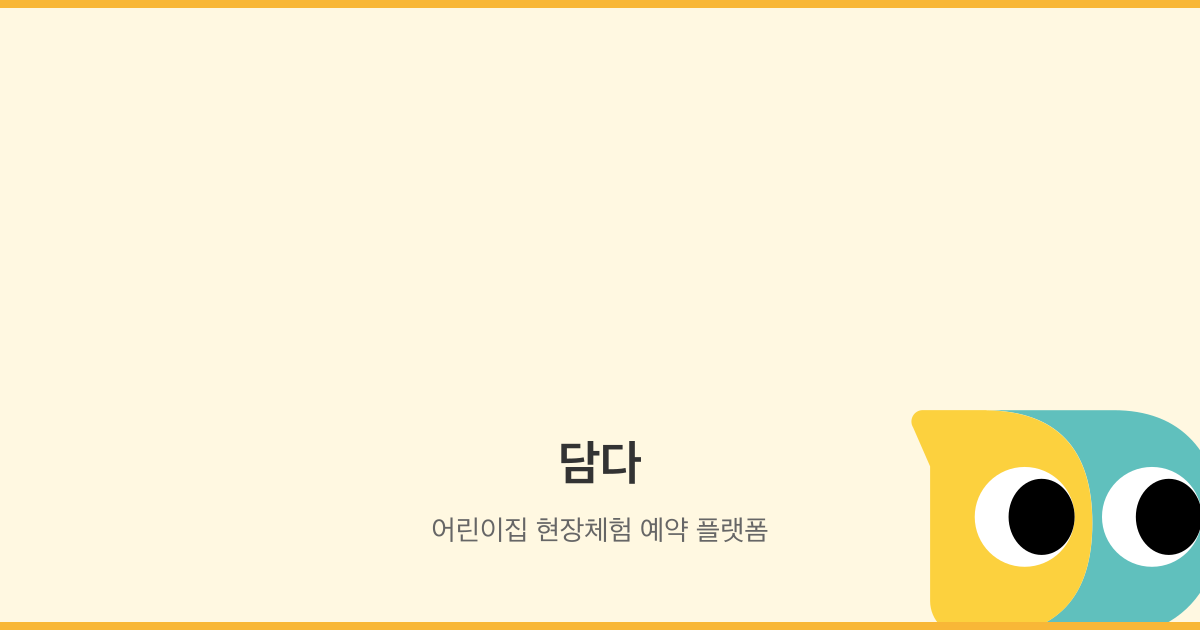
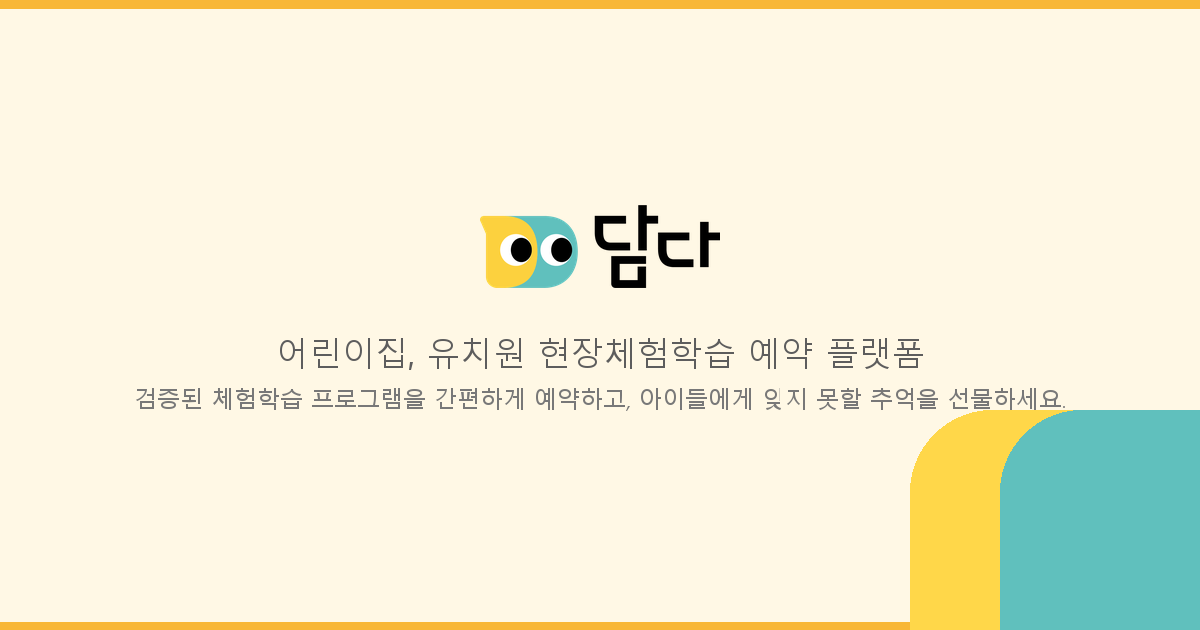
Use shared Damda preview image for links

diff --git a/src/app/layout.tsx b/src/app/layout.tsx
@@ -8,11 +8,11 @@ import "./globals.css";
 export const metadata: Metadata = {
   metadataBase: new URL("https://withdamda.kr"),
   title: {
-    default: "담다 | 어린이집·유치원 현장체험 예약 플랫폼",
+    default: "담다 | 어린이집·유치원 현장체험학습 예약 플랫폼",
     template: "%s | 담다",
   },
   description:
-    "담다는 어린이집·유치원을 위한 현장체험 예약 플랫폼입니다. 검증된 체험학습 업체와 프로그램을 지역별로 비교하고 간편하게 예약하세요.",
+    "담다는 어린이집·유치원을 위한 현장체험학습 예약 플랫폼입니다. 검증된 체험학습 업체와 프로그램을 지역별로 비교하고 간편하게 예약하세요.",
   keywords: [
     "어린이집",
     "현장체험",
@@ -27,7 +27,7 @@ export const metadata: Metadata = {
     type: "website",
     locale: "ko_KR",
     siteName: "담다",
-    title: "담다 | 어린이집·유치원 현장체험 예약 플랫폼",
+    title: "담다 | 어린이집·유치원 현장체험학습 예약 플랫폼",
     description:
       "검증된 현장체험 업체와 어린이집·유치원 맞춤 프로그램을 한 곳에서 비교하고 예약하세요.",
     images: [
@@ -35,7 +35,7 @@ export const metadata: Metadata = {
         url: "/og-image.png",
         width: 1200,
         height: 630,
-        alt: "담다 - 어린이집 현장체험 예약 플랫폼",
+        alt: "담다 - 어린이집, 유치원 현장체험학습 예약 플랫폼",
       },
     ],
   },

diff --git a/src/app/(main)/businesses/[id]/page.tsx b/src/app/(main)/businesses/[id]/page.tsx
@@ -26,6 +26,14 @@ interface BusinessPageProps {
 }
 
 const DAY_LABELS = ["일", "월", "화", "수", "목", "금", "토"];
+const SHARED_OG_TITLE = "담다 | 어린이집·유치원 현장체험학습 예약 플랫폼";
+const SHARED_OG_DESCRIPTION = "검증된 체험학습 프로그램을 간편하게 예약하고, 아이들에게 잊지 못할 추억을 선물하세요.";
+const SHARED_OG_IMAGE = {
+  url: "/og-image.png",
+  width: 1200,
+  height: 630,
+  alt: "담다 - 어린이집, 유치원 현장체험학습 예약 플랫폼",
+};
 
 export async function generateMetadata({ params }: BusinessPageProps) {
   const { id } = await params;
@@ -38,11 +46,11 @@ export async function generateMetadata({ params }: BusinessPageProps) {
         description: introduction || `${business.name}의 체험 상품을 확인하세요.`,
         alternates: { canonical: `/businesses/${id}` },
         openGraph: {
-        title: business.name,
-          description: introduction || `${business.name}의 체험 상품을 확인하세요.`,
+          title: SHARED_OG_TITLE,
+          description: SHARED_OG_DESCRIPTION,
           url: `/businesses/${id}`,
           type: "website",
-          images: business.logo_url ? [business.logo_url] : undefined,
+          images: [SHARED_OG_IMAGE],
         },
       }
     : { title: "사업장을 찾을 수 없습니다" };

diff --git a/src/app/(main)/products/[id]/page.tsx b/src/app/(main)/products/[id]/page.tsx
@@ -28,6 +28,15 @@ interface ProductDetailPageProps {
   searchParams: Promise<{ preview_token?: string }>;
 }
 
+const SHARED_OG_TITLE = "담다 | 어린이집·유치원 현장체험학습 예약 플랫폼";
+const SHARED_OG_DESCRIPTION = "검증된 체험학습 프로그램을 간편하게 예약하고, 아이들에게 잊지 못할 추억을 선물하세요.";
+const SHARED_OG_IMAGE = {
+  url: "/og-image.png",
+  width: 1200,
+  height: 630,
+  alt: "담다 - 어린이집, 유치원 현장체험학습 예약 플랫폼",
+};
+
 export async function generateMetadata({ params }: ProductDetailPageProps) {
   const { id } = await params;
   const product = await getCachedProductDetail(id);
@@ -40,12 +49,12 @@ export async function generateMetadata({ params }: ProductDetailPageProps) {
     title: product.name,
     description: product.summary || product.name,
     openGraph: {
-      title: product.name,
-      description: product.summary || product.name,
+      title: SHARED_OG_TITLE,
+      description: SHARED_OG_DESCRIPTION,
       siteName: "담다",
       locale: "ko_KR",
       type: "article",
-      images: [product.thumbnail],
+      images: [SHARED_OG_IMAGE],
     },
   };
 }
